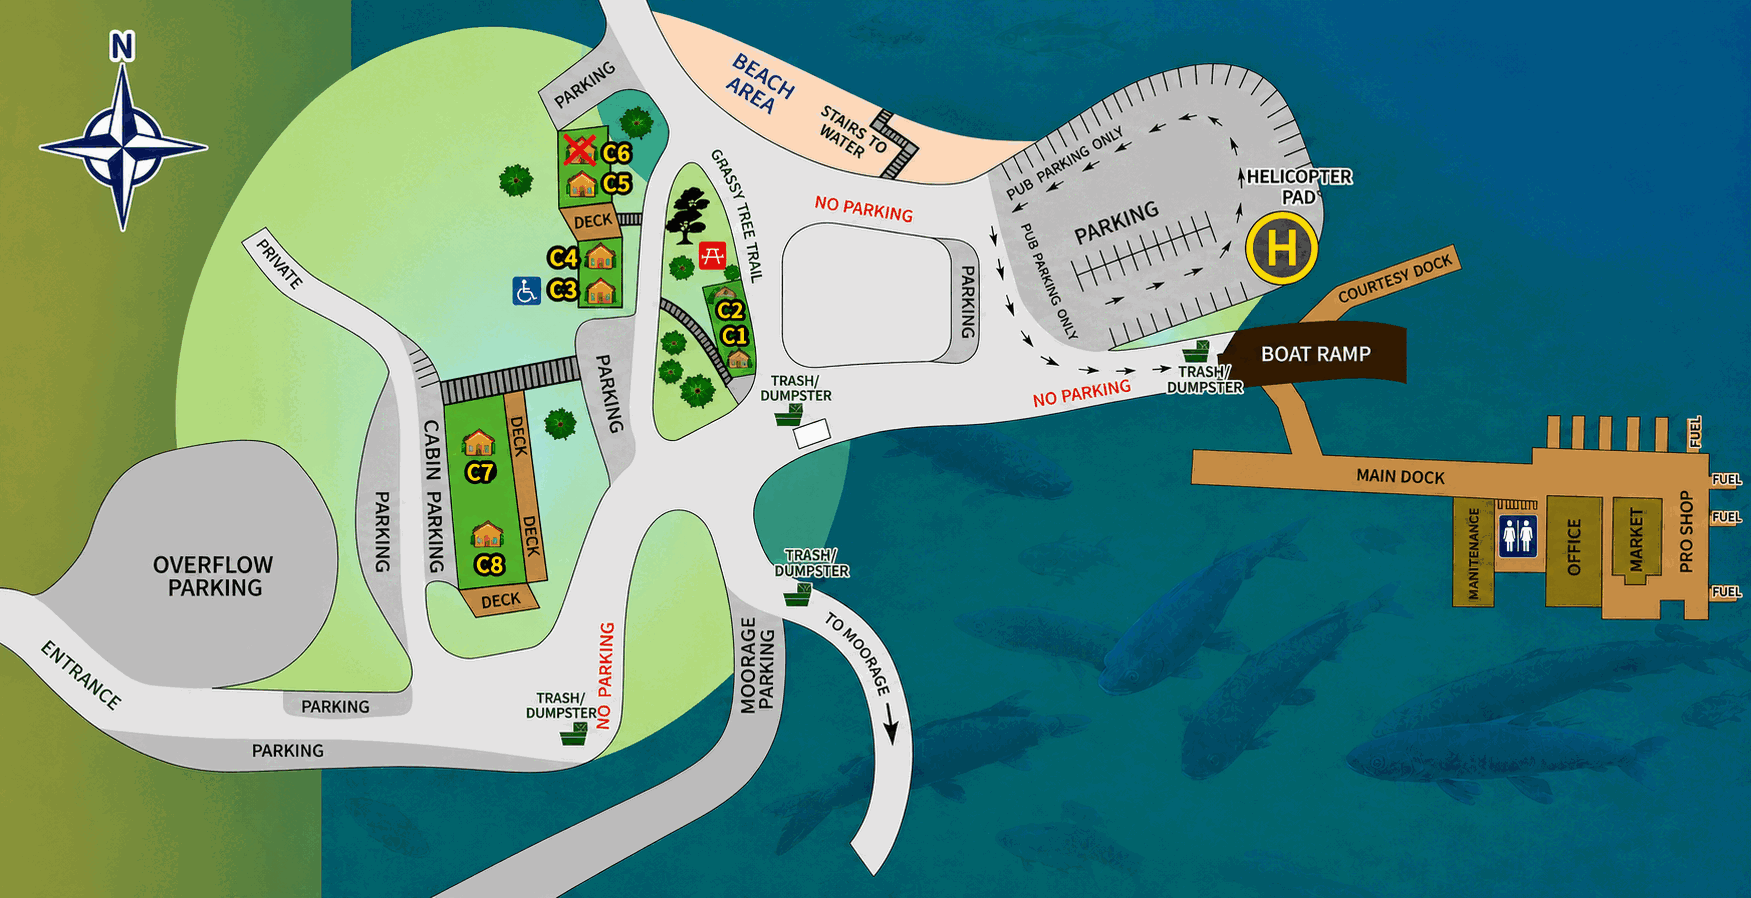
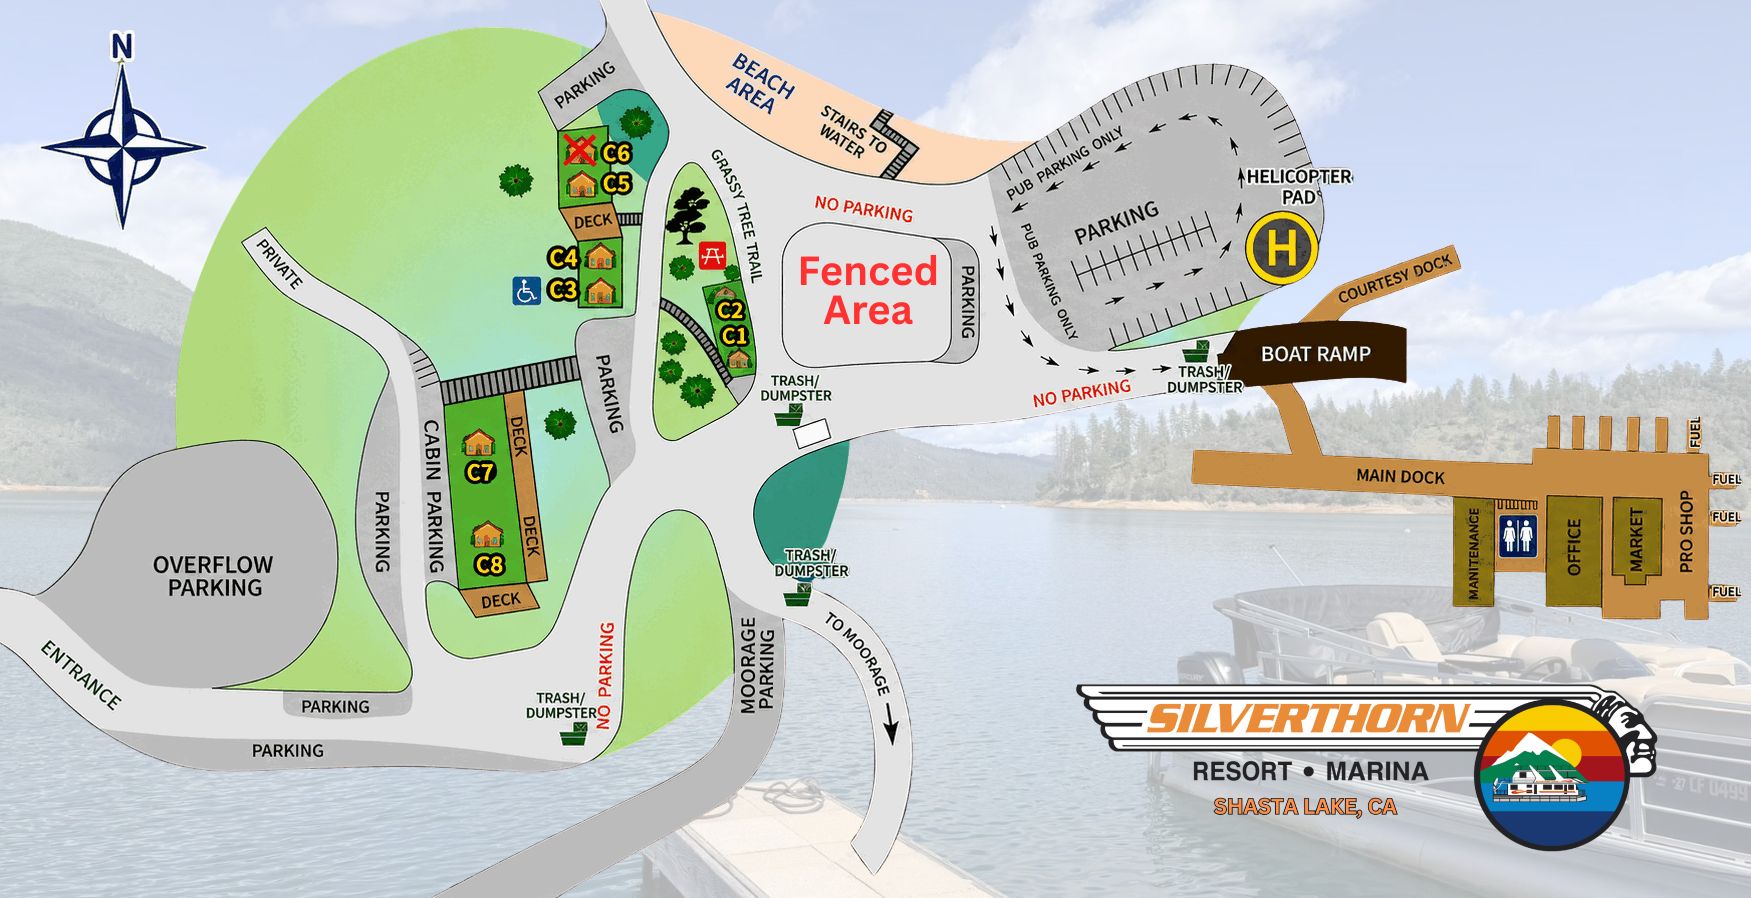
Changes

diff --git a/.lovable/plan.md b/.lovable/plan.md
@@ -1,52 +1,6 @@
-## Cabin Rental Policy Page
+## Swap resort map image
 
-Create a new route `src/routes/cabins.policy.tsx` that mirrors the layout, typography, colors (NAVY/ORANGE/SAND), hero pattern, sectioned cards, deposit table, cancellation timeline, "Important Notice" gradient block, related-pages strip, and CTA from `src/routes/houseboats.policy.tsx` — but with cabin-specific content.
+1. Copy `user-uploads://official_silverthorn_cartoon_map_shasta_lake-3.png` → `src/assets/silverthorn-resort-map.png` (overwrite). Keeps the existing import path so no other code changes are needed.
+2. Update `src/routes/cabins.tsx` line 346 `alt` to: `Silverthorn Resort map 2026 Shasta Lake`.
 
-### Sections (icons + cards, in order)
-
-1. **Rental Policy & Payment** (CreditCard) — 21+ Captain/Co-Captain, valid driver's license, full payment 75 days prior, accepted payment methods, no cash refunds.
-2. **Deposits** (Wallet) — Deposit table with columns *Rental / Booking Deposit*, linked rows:
-   - Queen, Queen I, Queen II — $1,000 → `/houseboats`
-   - Presidential, Senator, Executive — $500 → `/houseboats`
-   - Wakeboard Boats — $500 → `/small-boats`
-   - Tahoe Boats — $500 → `/small-boats`
-   - Patio & Fishing Boats — $200 → `/small-boats`
-   - **Cabin — $100** → `/cabins` (highlighted)
-3. **Security / Damage Deposit** (ShieldCheck) — Refundable on clean/undamaged return, accepted forms, cash refunded by mailed check, no personal checks. Callout: holiday/May weekends increase deposits to $5,000 (Queen tier) / $3,000 (Presidential tier), cash only.
-4. **Cancellation** (CalendarX) — 4-tier timeline matching houseboat tones (good/ok/warn/bad): within 5 days of booking, 75+ days before arrival (50%), 46–74 days (full deposit forfeit), within 45 days (full rental forfeit).
-5. **Form of Payment** (Wallet) — Same payment-method chips as houseboat page.
-6. **Taxes & Fees** (CreditCard) — Nightly rates exclude sales tax; additional fees at booking.
-7. **Repair & Refund Policy** (Wrench) — Notify resort immediately; no refunds for weather, outages, appliance/AC/plumbing failures.
-8. **Availability** (AlertTriangle) — Specific cabin not guaranteed; may be moved to comparable cabin.
-9. **Check-In** (LogIn) — Two cards: May–Sept 3–6 PM, Oct–April 1–4 PM.
-10. **Check-Out** (LogOut) — Cleaned and out by 11:00 AM; check-out procedures.
-11. **Important Notice** (AlertTriangle) — Gradient navy block: no refunds for late arrival/early departure, equipment failure, weather, illness, accidents, plan changes.
-12. **Parking Permits** (Car) — Set number of passes per cabin type.
-13. **Pet-Friendly Resort** (Dog) — 1 pet free, $35 each additional, $25/hr excessive cleaning.
-14. **Wildlife** (a Trees/PawPrint icon) — Shasta-Trinity National Forest wildlife disclaimer.
-15. **Cabin Furnishings, Decor & Equipment** (Home icon) — Privately owned; no moving furniture or electronics; bring special equipment; decor varies; subject to change.
-16. **Damage to Cabin / Decor / Furnishings** (ShieldCheck) — Renter responsible for damage by any party member (authorized or not).
-17. **No Smoking** (Ban icon) — Non-smoking cabins; half of $200 deposit forfeited; outdoor deck OK; no butts on property.
-18. **Keys** (Key icon) — Guest pays re-keying cost for lost/unreturned keys.
-19. **Personal Property** (Briefcase icon) — Resort not liable for lost/damaged personal property.
-20. **Compliance with Laws** (Scale/Gavel icon) — Comply with US/CA/local law; resort may cancel for violations with forfeiture.
-21. **Responsibility** (UserCheck) — Renter fully responsible for cabin and equipment; not an agent of Silverthorn; no repairs/liens without written permission.
-
-### Hero
-
-Same pattern as houseboat policy: full-bleed background image with navy gradient, orange pill "Cabins · Policy", H1 "Cabin **Rental Policy**" (orange accent on "Rental Policy"), subhead, Call + Email buttons. Reuse `@/assets/rental-policy-hero.jpg` (already in project) for now to avoid generating new asset.
-
-### Related-pages strip + CTA
-
-Same 3-card grid as houseboat policy linking to Lake Cabins (`/cabins`), Luxury Houseboats (`/houseboats`), and Patio & Wakeboard Boats (`/small-boats`), then the standard contact CTA.
-
-### Routing / SEO
-
-- Create `src/routes/cabins.policy.tsx` (TanStack flat-dot routing → `/cabins/policy`).
-- `head()` with unique title "Cabin Rental Policy — Silverthorn Resort", meta description, og:title/description/image/url, twitter card, canonical, and JSON-LD (`WebPage` + `BreadcrumbList`: Home → Cabins → Rental Policy).
-- Add a "Cabin Policy" link to the Cabins submenu in `src/components/SilverthornHomePage.tsx` (header nav + footer "Stay" column) pointing to `/cabins/policy`, matching the existing "Cabin Policy" / "Lake Cabins" structure.
-
-### Files
-
-- **Create**: `src/routes/cabins.policy.tsx`
-- **Edit**: `src/components/SilverthornHomePage.tsx` (add "Cabin Policy" submenu entry in 2 places)
+That's it — no other files affected.
